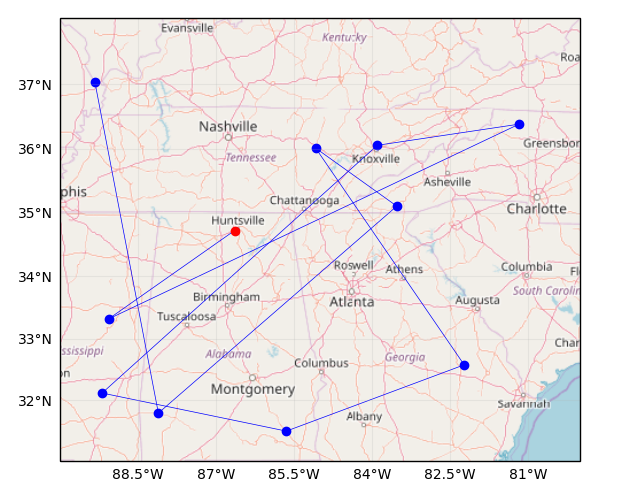
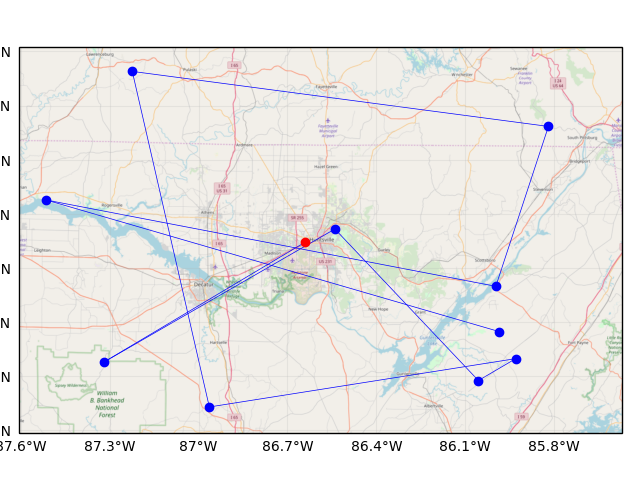
put closer to huntsville

Changed region(s): [[0.0, 0.0312, 1.0, 1.0]]

diff --git a/simulation/pointgen.py b/simulation/pointgen.py
@@ -6,24 +6,27 @@ an expected output.
 
 Author: Sean Widmier
 '''
-import random
 import math
+import random
+
 
 class PointGenerator:
     def __init__(self):
-        self.points = {"longs":[], "lats": []}
+        self.points = {"longs": [], "lats": []}
         self.vectors = {}
 
     def generate(self, numpoints):
         self.numpoints = numpoints
 
-        self.points["longs"].append(-86.640948) # the first entry in each list are the initial points
-        self.points["lats"].append(34.722427) # set to huntsville's location
+        # the first entry in each list are the initial points
+        self.points["longs"].append(-86.640948)
+        self.points["lats"].append(34.722427)  # set to huntsville's location
 
-        for i in range(1,numpoints+1):
+        for i in range(1, numpoints+1):
             self.points["longs"].append(PointGenerator.rand_long())
-            self.points["lats"].append(PointGenerator.rand_lat()) # generate a random coordinate
-            
+            # generate a random coordinate
+            self.points["lats"].append(PointGenerator.rand_lat())
+
             area = random.random()  # each location has an 'area'
 
             lat_vec = PointGenerator.find_vector(
@@ -73,16 +76,9 @@ class PointGenerator:
 
     @staticmethod
     def rand_lat():
-        return random.uniform(31, 38)  # assume we're near huntsville
+        return random.uniform(34.1928, 35.2612)  # assume we're near huntsville
 
     @staticmethod
     def rand_long():
-        return random.uniform(-90, -80)  # assume we're near huntsville
-
-
-# with open("generated-ouputs.txt", "w") as f:
-#     for i in range(5):
-#         gen = PointGenerator()
-#         gen.generate(10)
-#         print(gen)
-#         f.write(gen.__str__())
+        # assume we're near huntsville
+        return random.uniform(-87.6073, -85.573)

diff --git a/simulation/mapplot.py b/simulation/mapplot.py
@@ -1,8 +1,9 @@
+import matplotlib.pyplot as plt
+
 import cartopy.crs as ccrs
 import cartopy.io.img_tiles as cimgt
-from cartopy.mpl.gridliner import LONGITUDE_FORMATTER, LATITUDE_FORMATTER
+from cartopy.mpl.gridliner import LATITUDE_FORMATTER, LONGITUDE_FORMATTER
 
-import matplotlib.pyplot as plt
 
 class MapPlotter():
     def __init__(self, coordinates):
@@ -13,8 +14,9 @@ class MapPlotter():
         plt.switch_backend('Agg')
         ax = plt.axes(projection=self.request.crs)
 
-        ax.set_extent([-90, -80, 31, 38])  # assume we're near to huntsville
-        ax.add_image(self.request, 6, interpolation='bilinear', zorder=0)
+        # assume we're near to huntsville
+        ax.set_extent([-87.6073, -85.573, 34.1928, 35.2612])
+        ax.add_image(self.request, 10, interpolation='bilinear', zorder=0)
 
         gl = ax.gridlines(draw_labels=True, alpha=0.2)
         gl.xlabels_top = gl.ylabels_right = False

diff --git a/simulation/main.py b/simulation/main.py
@@ -1,9 +1,13 @@
-import pointgen
 import mapplot
+import pointgen
 
 def main():
-    gen = pointgen.PointGenerator()
-    gen.generate(10)
+    with open("generated-ouputs.txt", "w") as f:
+        for i in range(5):
+            gen = pointgen.PointGenerator()
+            gen.generate(10)
+            print(gen)
+            f.write(gen.__str__())
 
     mpl = mapplot.MapPlotter(gen.points)
     mpl.plot_locations(int(gen.find_best()))
